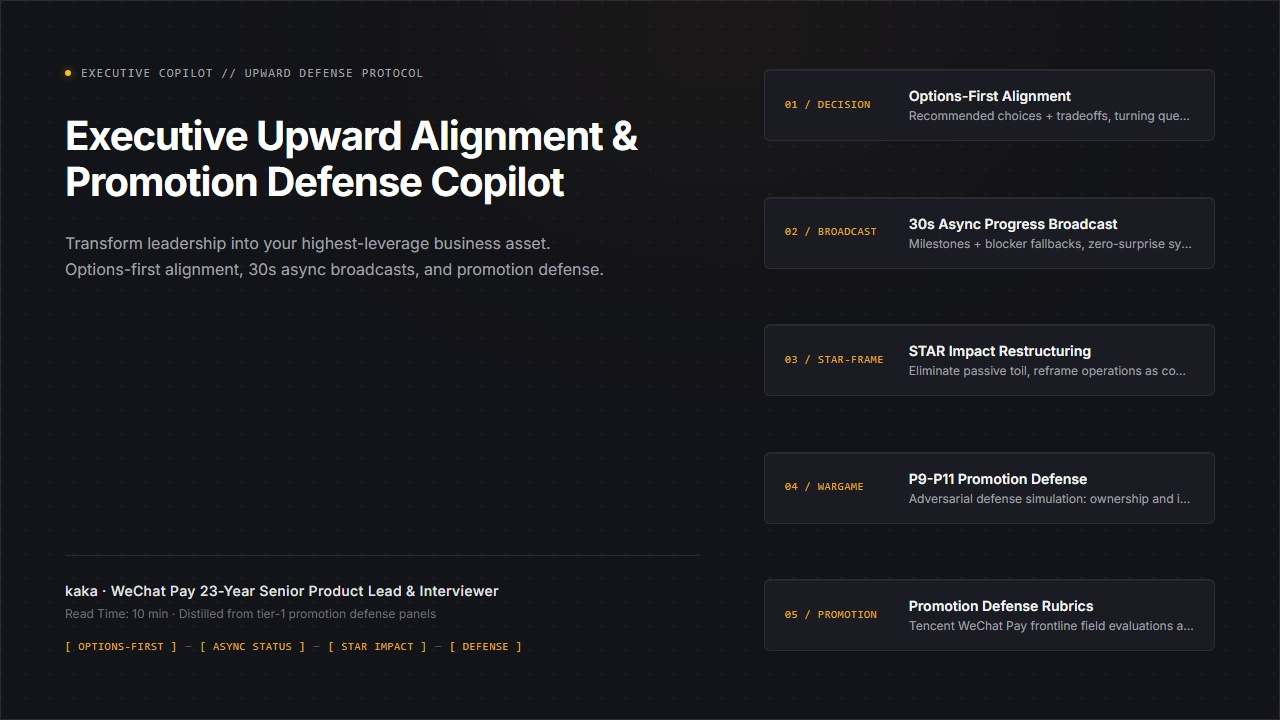
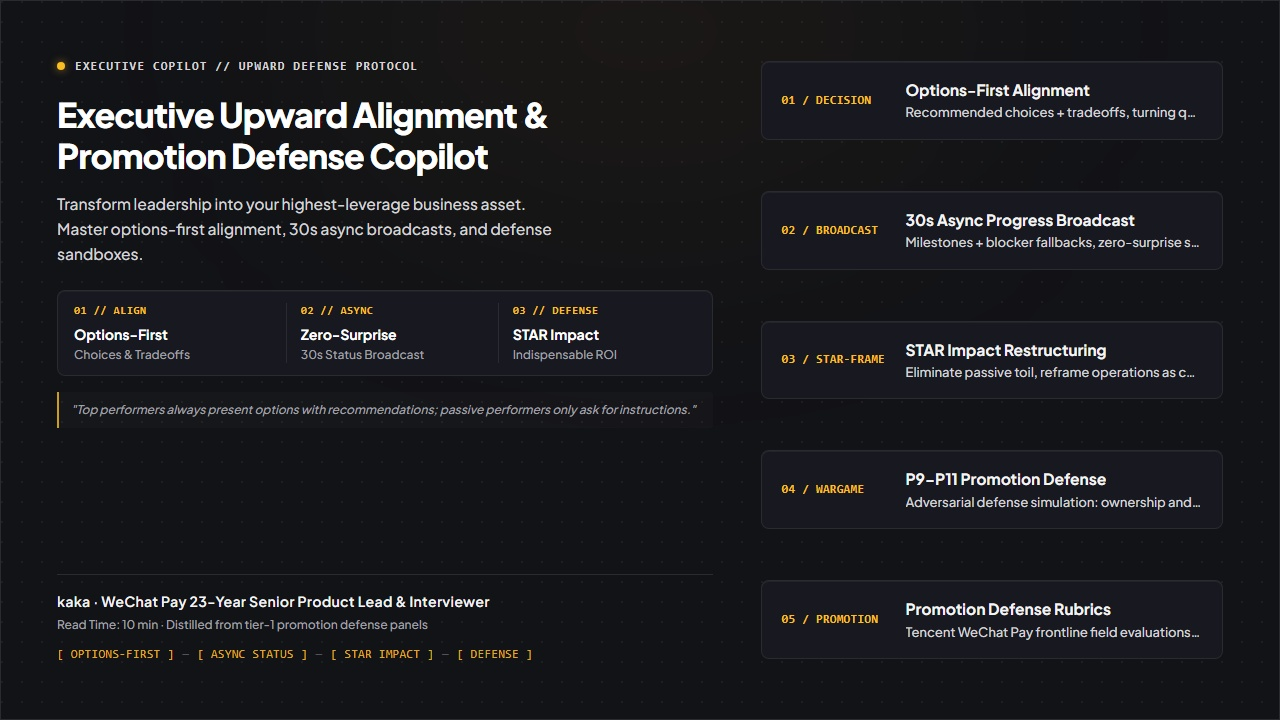
fix(design): balance typography hierarchy and deploy high-density architecture blueprint

diff --git a/README.md b/README.md
@@ -48,7 +48,7 @@ Modeled after executive leadership editorial playbooks and asynchronous enterpri
 The following diagram illustrates the complete workflow from daily async updates to executive sign-offs and committee defense:
 
 <div align="center">
-  <img src="assets/architecture.svg" alt="Upward Alignment System Architecture" width="100%" />
+  <img src="assets/architecture.png" alt="Upward Alignment System Architecture" width="100%" style="border-radius: 10px; border: 1px solid #27272A; box-shadow: 0 8px 30px rgba(0,0,0,0.3);" />
 </div>
 
 ---

diff --git a/README_zh.md b/README_zh.md
@@ -48,7 +48,7 @@
 下图展示了从日常异步协同、关键决策对齐到晋升答辩攻防的闭环流程：
 
 <div align="center">
-  <img src="assets/architecture_zh.svg" alt="向上管理业务系统架构图" width="100%" />
+  <img src="assets/architecture_zh.png" alt="向上管理业务全景系统架构图" width="100%" style="border-radius: 10px; border: 1px solid #27272A; box-shadow: 0 8px 30px rgba(0,0,0,0.3);" />
 </div>
 
 ---
